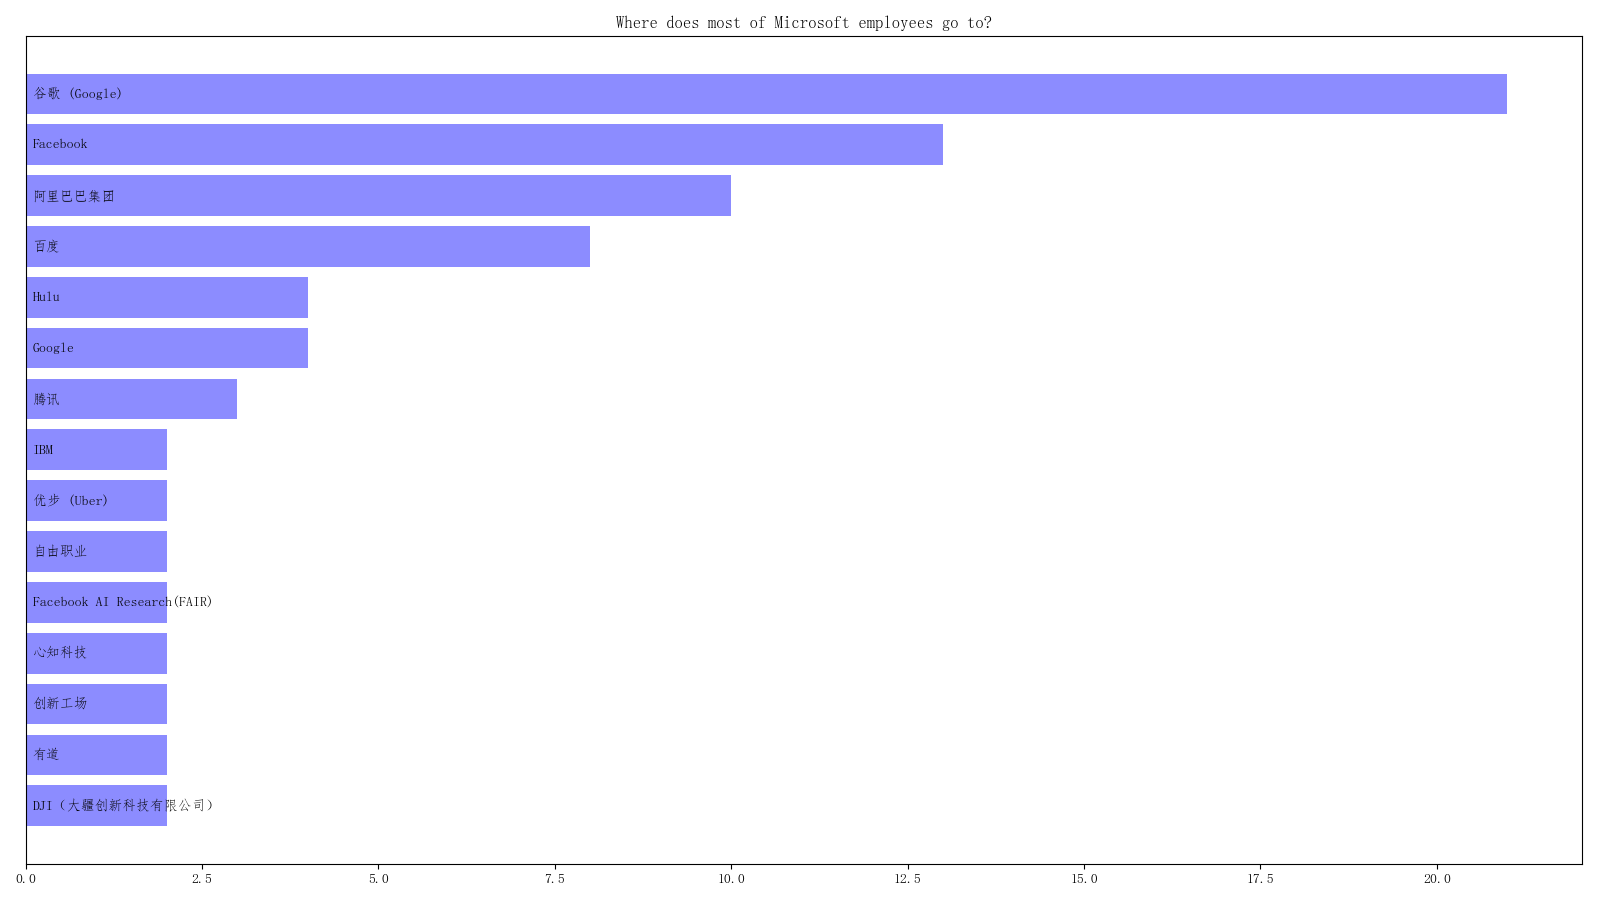
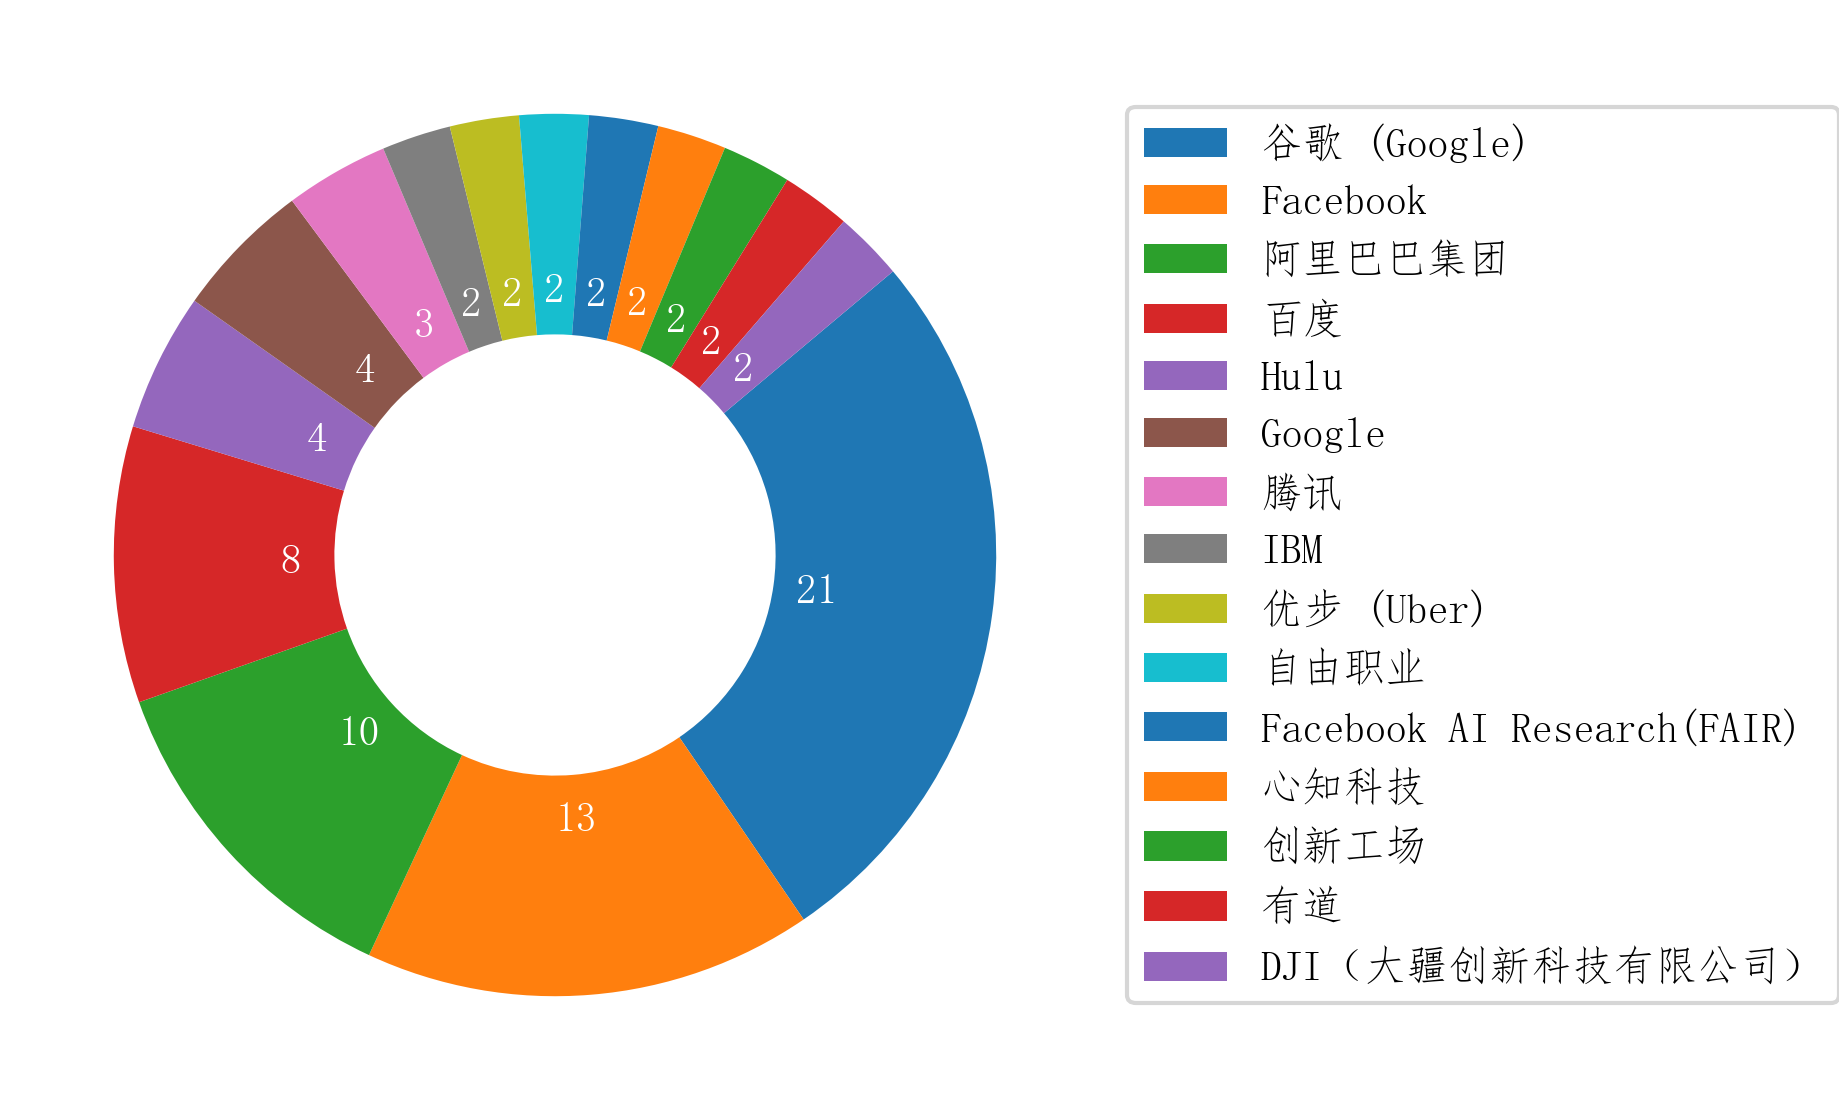
use pie chart to display more clear

diff --git a/charts.py b/charts.py
@@ -3,6 +3,7 @@
 import pymongo
 import numpy as np
 import matplotlib.pyplot as plt
+from matplotlib import font_manager as fm
 from pylab import mpl
 import inspect
 import re
@@ -63,21 +64,18 @@ def count_google(collection):
 
     mpl.rcParams['font.sans-serif'] = ['FangSong']
     mpl.rcParams['axes.unicode_minus'] = False
+    plt.rcParams['savefig.dpi'] = 300
+    plt.rcParams['figure.dpi'] = 300
     
-    fig, ax = plt.subplots(figsize=(16,9))
+    fig, ax = plt.subplots(figsize=(8,4))
 
-    y_pos = np.arange(len(schools))
-    ax.barh(y_pos, counts, color=(0.1,0.1,1.0,0.5))
-    ax.set_yticks([])
-    ax.invert_yaxis()
-    ax.set_title('Where does most of Googlers graduate from')
+    wedges, _, _ = ax.pie(counts, autopct=lambda pct: int((pct*sum(counts)/100.)+0.5), wedgeprops=dict(width=0.5),
+                    startangle=40, textprops=dict(color="w"), counterclock=False)
 
-    for i, school in enumerate(schools):
-        ax.text(0.1, i, school, ha='left', va='center')
+    ax.legend(wedges, schools, bbox_to_anchor=(1, 0, 0.5, 1), loc='center left')
 
     fig.tight_layout()
-
-    plt.savefig(f'results/{inspect.stack()[0][3]}.png')
+    plt.savefig(f'results/{inspect.stack()[0][3]}.png', bbox_inches="tight", pad_inches=0)
 
 def count_lastCompany(collection):
     data = list(collection.aggregate(
@@ -188,21 +186,18 @@ def count_lastCompany(collection):
 
     mpl.rcParams['font.sans-serif'] = ['FangSong']
     mpl.rcParams['axes.unicode_minus'] = False
+    plt.rcParams['savefig.dpi'] = 300
+    plt.rcParams['figure.dpi'] = 300
     
-    fig, ax = plt.subplots(figsize=(16,9))
+    fig, ax = plt.subplots(figsize=(8,4))
 
-    y_pos = np.arange(len(companies))
-    ax.barh(y_pos, counts, color=(0.1,0.1,1.0,0.5))
-    ax.set_yticks([])
-    ax.invert_yaxis()
-    ax.set_title('Where does most of Googlers come from?')
+    wedges, _, _ = ax.pie(counts, autopct=lambda pct: int((pct*sum(counts)/100.)+0.5), wedgeprops=dict(width=0.5),
+                    startangle=40, textprops=dict(color="w"), counterclock=False)
 
-    for i, company in enumerate(companies):
-        ax.text(0.1, i, company, ha='left', va='center')
+    ax.legend(wedges, companies, bbox_to_anchor=(1, 0, 0.5, 1), loc='center left')
 
     fig.tight_layout()
-
-    plt.savefig(f'results/{inspect.stack()[0][3]}.png')
+    plt.savefig(f'results/{inspect.stack()[0][3]}.png', bbox_inches="tight", pad_inches=0)
 
 def count_company(collection):
     data = list(collection.aggregate(
@@ -240,21 +235,18 @@ def count_company(collection):
 
     mpl.rcParams['font.sans-serif'] = ['FangSong']
     mpl.rcParams['axes.unicode_minus'] = False
+    plt.rcParams['savefig.dpi'] = 300
+    plt.rcParams['figure.dpi'] = 300
     
-    fig, ax = plt.subplots(figsize=(16,9))
+    fig, ax = plt.subplots(figsize=(8,4))
 
-    y_pos = np.arange(len(companies))
-    ax.barh(y_pos, counts, color=(0.1,0.1,1.0,0.5))
-    ax.set_yticks([])
-    ax.invert_yaxis()
-    ax.set_title('Where does most of zhihu users come from?')
+    wedges, _, _ = ax.pie(counts, autopct=lambda pct: int((pct*sum(counts)/100.)+0.5), wedgeprops=dict(width=0.5),
+                    startangle=40, textprops=dict(color="w"), counterclock=False)
 
-    for i, company in enumerate(companies):
-        ax.text(0.1, i, company, ha='left', va='center')
+    ax.legend(wedges, companies, bbox_to_anchor=(1, 0, 0.5, 1), loc='center left')
 
     fig.tight_layout()
-
-    plt.savefig(f'results/{inspect.stack()[0][3]}.png')
+    plt.savefig(f'results/{inspect.stack()[0][3]}.png', bbox_inches="tight", pad_inches=0)
 
 def count_nextCompany(collection):
     data = list(collection.aggregate(
@@ -365,21 +357,18 @@ def count_nextCompany(collection):
 
     mpl.rcParams['font.sans-serif'] = ['FangSong']
     mpl.rcParams['axes.unicode_minus'] = False
+    plt.rcParams['savefig.dpi'] = 300
+    plt.rcParams['figure.dpi'] = 300
     
-    fig, ax = plt.subplots(figsize=(16,9))
+    fig, ax = plt.subplots(figsize=(8,4))
 
-    y_pos = np.arange(len(companies))
-    ax.barh(y_pos, counts, color=(0.1,0.1,1.0,0.5))
-    ax.set_yticks([])
-    ax.invert_yaxis()
-    ax.set_title('Where does most of Microsoft employees go to?')
+    wedges, _, _ = ax.pie(counts, autopct=lambda pct: int((pct*sum(counts)/100.)+0.5), wedgeprops=dict(width=0.5),
+                    startangle=40, textprops=dict(color="w"), counterclock=False)
 
-    for i, company in enumerate(companies):
-        ax.text(0.1, i, company, ha='left', va='center')
+    ax.legend(wedges, companies, bbox_to_anchor=(1, 0, 0.5, 1), loc='center left')
 
     fig.tight_layout()
-
-    plt.savefig(f'results/{inspect.stack()[0][3]}.png')
+    plt.savefig(f'results/{inspect.stack()[0][3]}.png', bbox_inches="tight", pad_inches=0)
 
 with pymongo.MongoClient('localhost', 27017) as client:
     collection = client.zhihu.user
